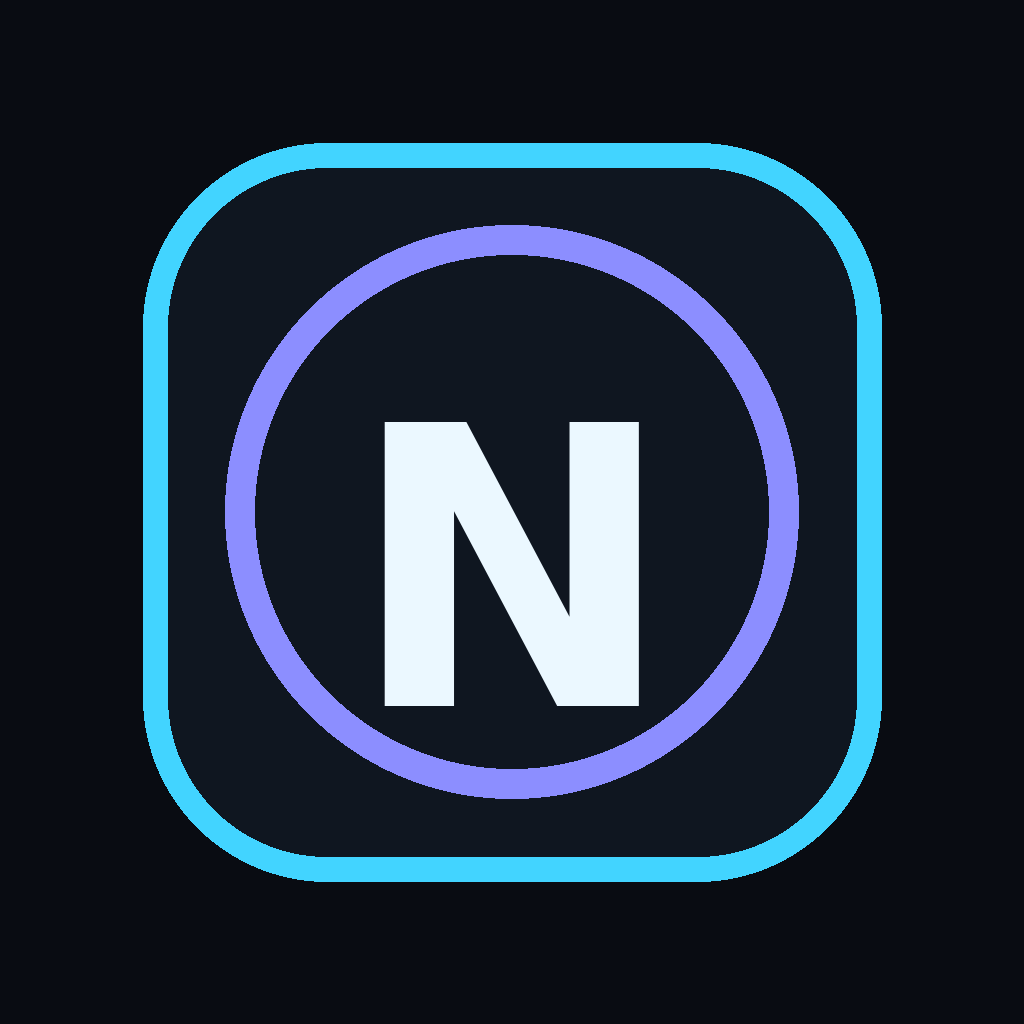
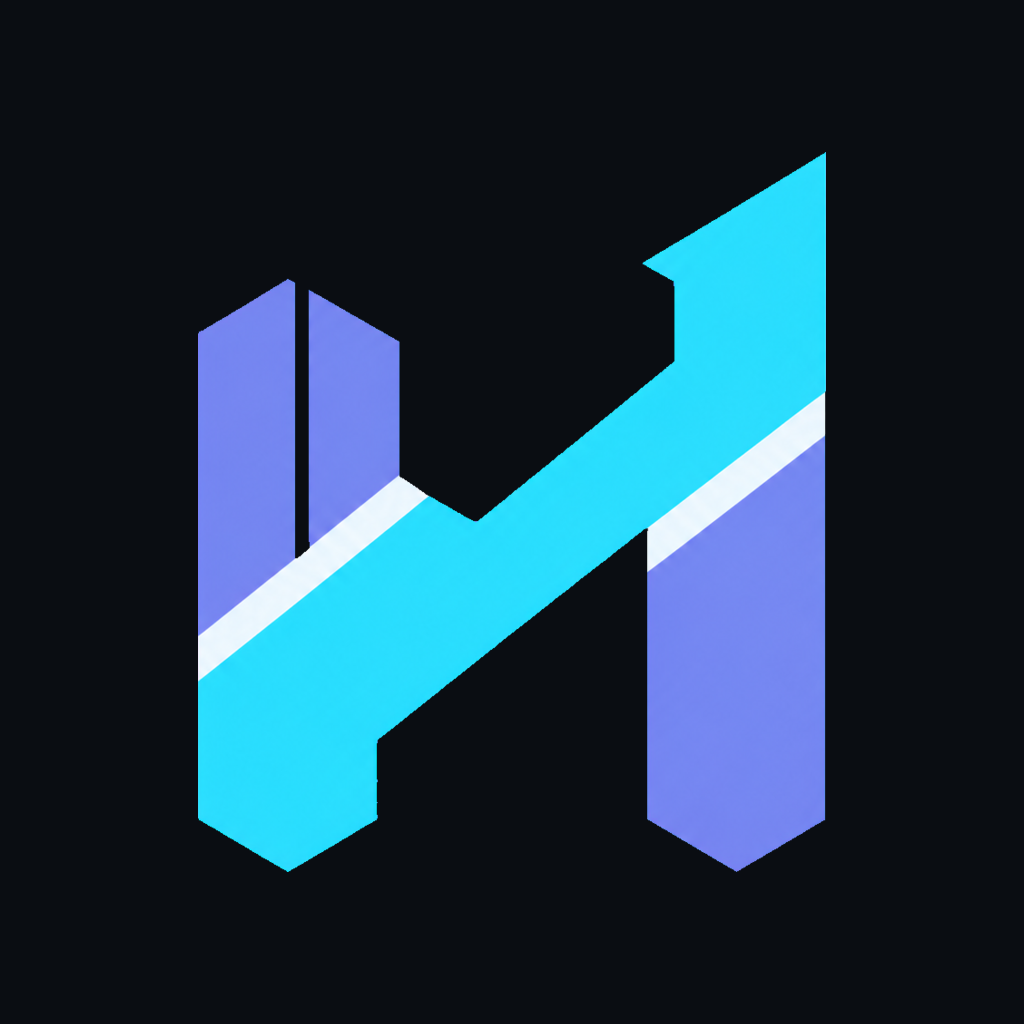
feat(brand): apresenta nova identidade visual do NeoLift
Adiciona símbolo ascendente, ícone principal, adaptive icon, splash e wordmarks para temas claro e escuro. Promove o aplicativo para v1.2.0, atualiza metadados e documentação da release, automatiza o manifesto SHA-256 e remove configurações locais de IDE do versionamento.

diff --git a/README.md b/README.md
@@ -1,6 +1,8 @@
 <div align="center">
-  <img src="./assets/icon.png" width="112" alt="NeoLift logo" />
-  <h1>NeoLift</h1>
+  <picture>
+    <source media="(prefers-color-scheme: dark)" srcset="./assets/branding/neolift-wordmark-light.png" />
+    <img src="./assets/branding/neolift-wordmark-dark.png" width="360" alt="NeoLift" />
+  </picture>
   <p><strong>Treino offline-first, progresso visual e catálogo aberto de exercícios.</strong></p>
 
   <p>
@@ -9,7 +11,7 @@
     <img src="https://img.shields.io/badge/Android-7%2B-3DDC84?logo=android" alt="Android 7+" />
     <img src="https://img.shields.io/badge/iOS-16.4%2B-111111?logo=apple" alt="iOS 16.4+" />
     <img src="https://img.shields.io/badge/storage-SQLite%20local-4F46E5" alt="SQLite local" />
-    <img src="https://img.shields.io/badge/version-v1.1.0-42D4FF" alt="Version" />
+    <img src="https://img.shields.io/badge/version-v1.2.0-42D4FF" alt="Version" />
   </p>
 
   <p>
@@ -17,7 +19,7 @@
     <a href="#-experiência">Experiência</a> ·
     <a href="#-arquitetura">Arquitetura</a> ·
     <a href="#-atualizações-pelo-github">Atualizações</a> ·
-    <a href="#-release-v110">Release</a>
+    <a href="#-release-v120">Release</a>
   </p>
 </div>
 
@@ -181,32 +183,11 @@ eas build -p android --profile production
 eas build -p ios --profile production
 ```
 
-## ✦ Release v1.1.0
+## ✦ Release v1.2.0
 
-Commit profissional da nova versão:
+A v1.2.0 apresenta a nova identidade visual do NeoLift: símbolo ascendente inspirado no monograma **N**, novo ícone do aplicativo, adaptive icon Android, splash e wordmarks para fundos claros e escuros. A versão também consolida a compatibilidade com o Expo SDK 57 e suas dependências nativas.
 
-```bash
-git add app.json package.json README.md CHANGELOG.md RELEASE-v1.1.0.md app src docs
-git commit -m "feat(updater): adiciona política inteligente de atualização Android" -m "Conta releases estáveis do GitHub, baixa antecipadamente o APK, solicita instalação quando há 1 a 3 versões novas e aplica o fluxo automático para a release mais recente quando o app está 4 ou mais releases atrasado."
-git push origin main
-```
-
-Tag e release:
-
-```bash
-git tag -a v1.1.0 -m "NeoLift v1.1.0 — Smart GitHub Updates"
-git push origin v1.1.0
-
-gh release create v1.1.0 \
-  --title "NeoLift v1.1.0 — Smart GitHub Updates" \
-  --notes-file RELEASE-v1.1.0.md
-```
-
-Depois do build Android, anexe o APK assinado com a mesma chave das versões anteriores:
-
-```bash
-gh release upload v1.1.0 ./NeoLift-v1.1.0.apk --clobber
-```
+Consulte [`RELEASE-v1.2.0.md`](./RELEASE-v1.2.0.md) para as notas completas da versão.
 
 <details>
 <summary><strong>Checklist antes de uma release</strong></summary>

diff --git a/RELEASE-v1.2.0.md b/RELEASE-v1.2.0.md
@@ -1,0 +1,30 @@
+# NeoLift v1.2.0 — Visual Identity
+
+Esta versão apresenta uma identidade visual própria para o NeoLift e consolida a atualização técnica para o Expo SDK 57.
+
+## Destaques
+
+- Novo símbolo do NeoLift: um monograma **N** ascendente que comunica força, progresso e evolução.
+- Novo ícone principal com fundo grafite e paleta cyan/violeta.
+- Adaptive icon Android redesenhado com safe zone apropriada.
+- Novo splash e marca transparente em alta resolução.
+- Wordmarks para aplicações sobre fundos claros e escuros.
+
+## Plataforma e compatibilidade
+
+- Expo atualizado para `~57.0.12`.
+- Expo Router atualizado para `~57.0.12`.
+- React Native atualizado para `0.86.2`.
+- Dependências nativas deduplicadas e alinhadas ao SDK 57.
+- TypeScript atualizado para a linha 6.0.
+- `android.versionCode` e `ios.buildNumber` incrementados para `3`.
+
+## Qualidade
+
+- `expo-doctor`: 20/20 verificações aprovadas.
+- Typecheck aprovado.
+- Verificação de consistência da versão aprovada.
+
+## Android
+
+O APK desta release é distribuído como `NeoLift-v1.2.0.apk`. Para que a atualização sobre uma versão anterior funcione, o APK deve usar a mesma chave de assinatura.

diff --git a/CHANGELOG.md b/CHANGELOG.md
@@ -2,6 +2,22 @@
 
 Todas as mudanças relevantes do NeoLift serão registradas aqui.
 
+## [1.2.0] - 2026-08-10
+
+### Added
+- Nova identidade visual com símbolo ascendente exclusivo do NeoLift.
+- Wordmarks para fundos claros e escuros em `assets/branding`.
+
+### Changed
+- Ícone principal, adaptive icon Android e splash atualizados.
+- Expo, Expo Router, React Native e módulos nativos alinhados ao Expo SDK 57.
+- Android `versionCode` e iOS `buildNumber` incrementados para 3.
+
+### Maintenance
+- Dependências obrigatórias do Expo Router e do `@expo/vector-icons` declaradas diretamente.
+- Configuração TypeScript atualizada para TypeScript 6.
+- Arquivos locais do IntelliJ/Android Studio removidos do controle de versão.
+
 ## [1.1.0] - 2026-08-07
 
 ### Added
